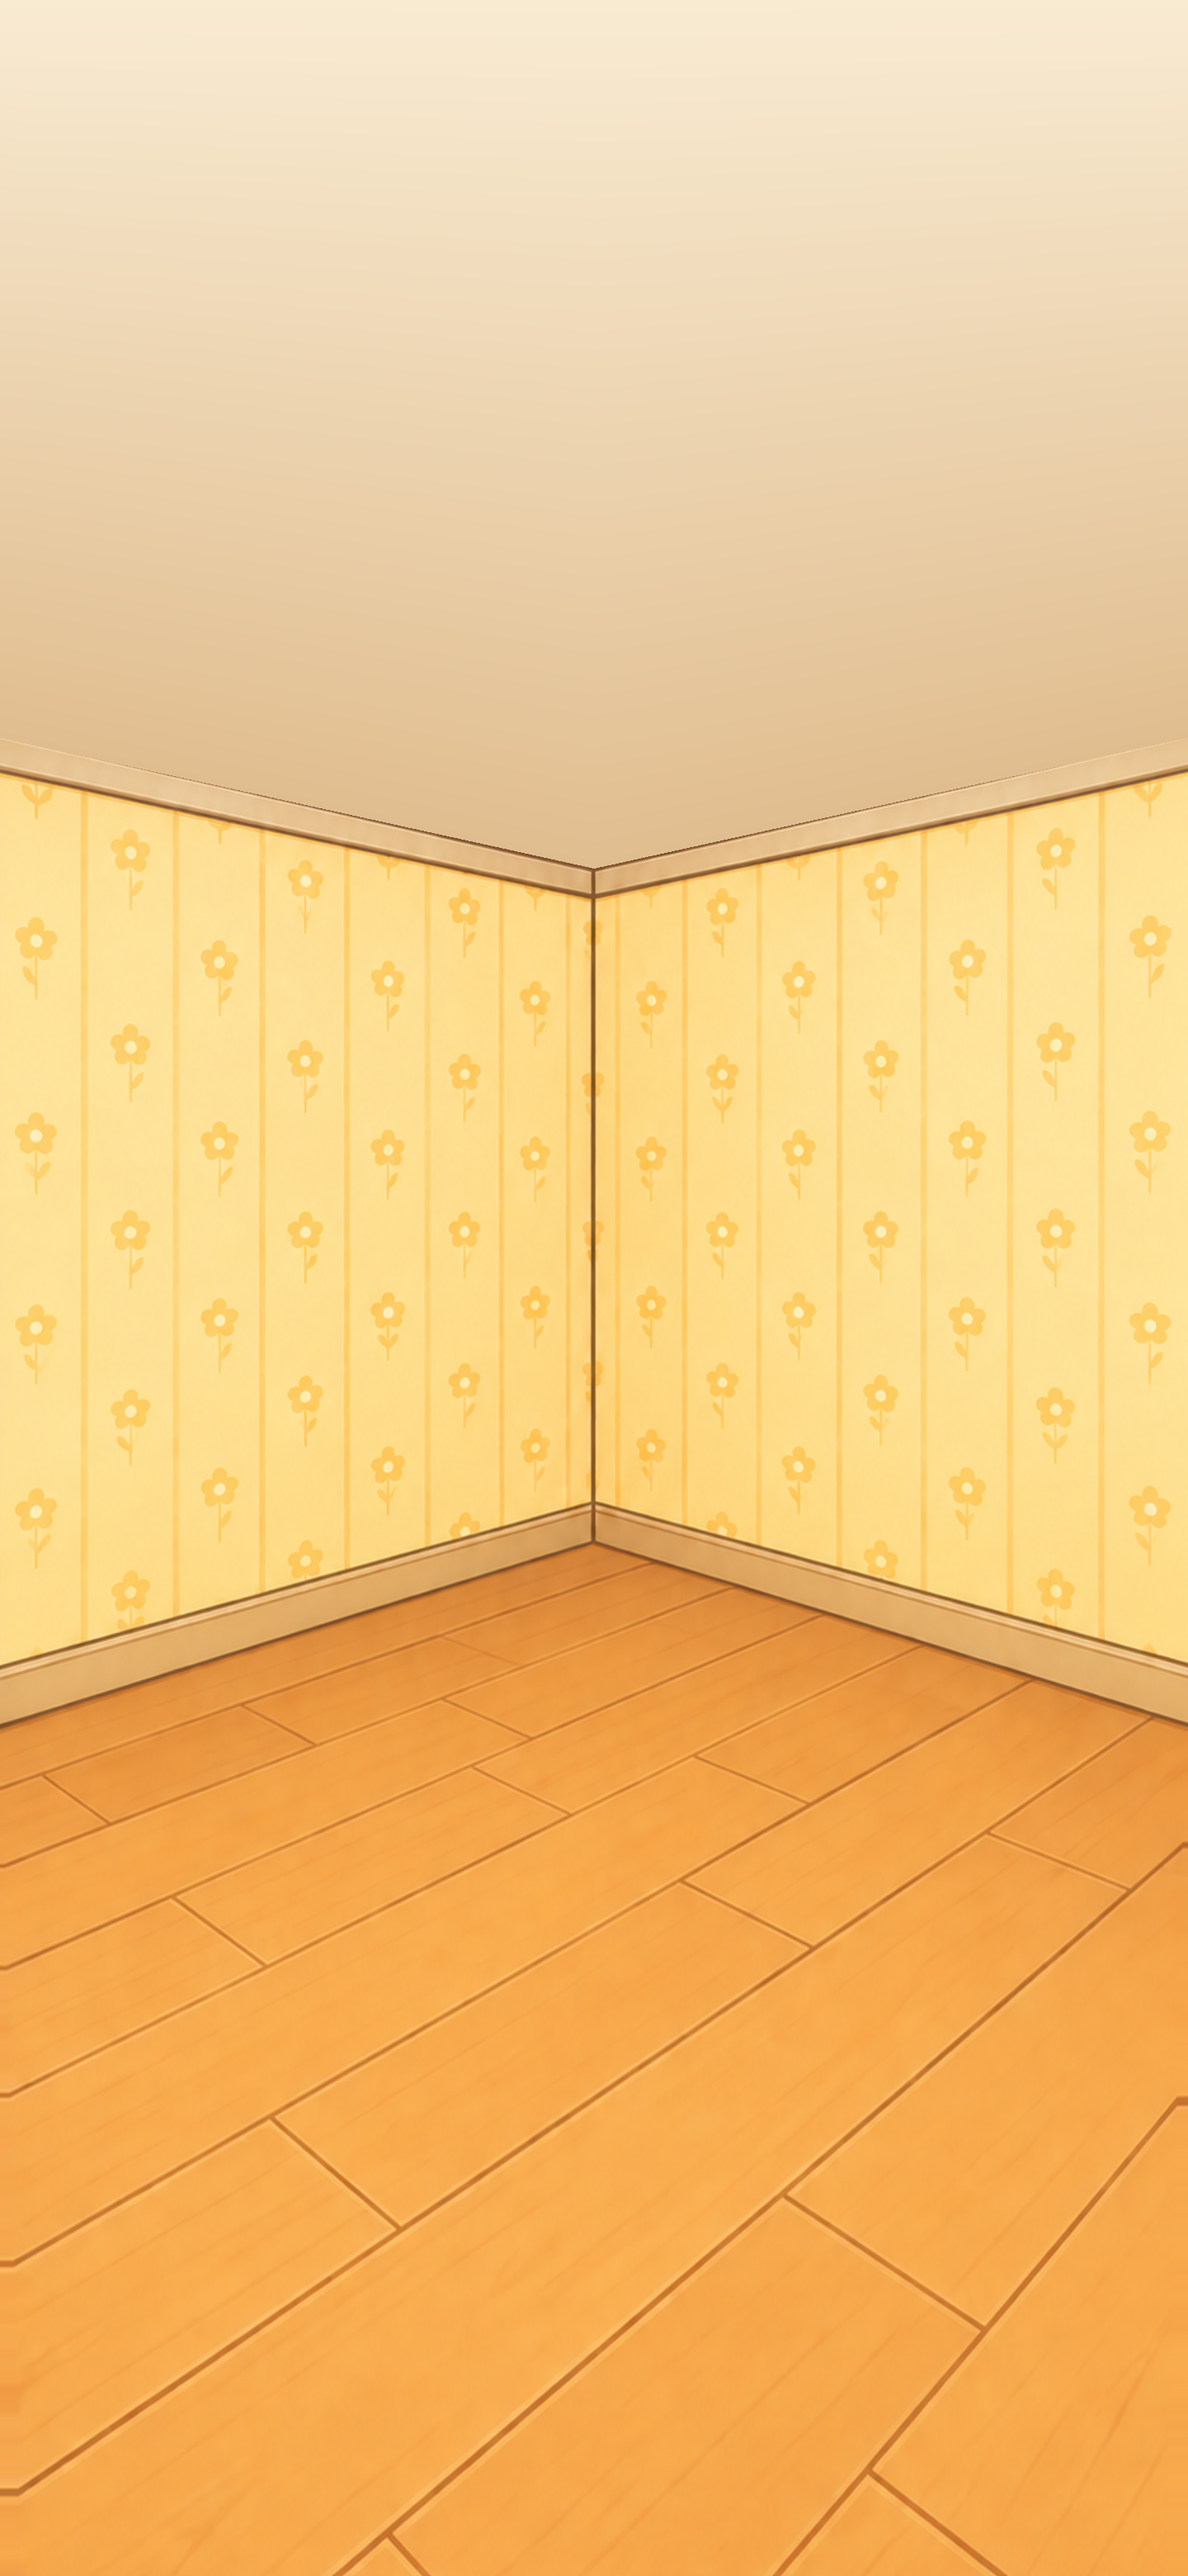
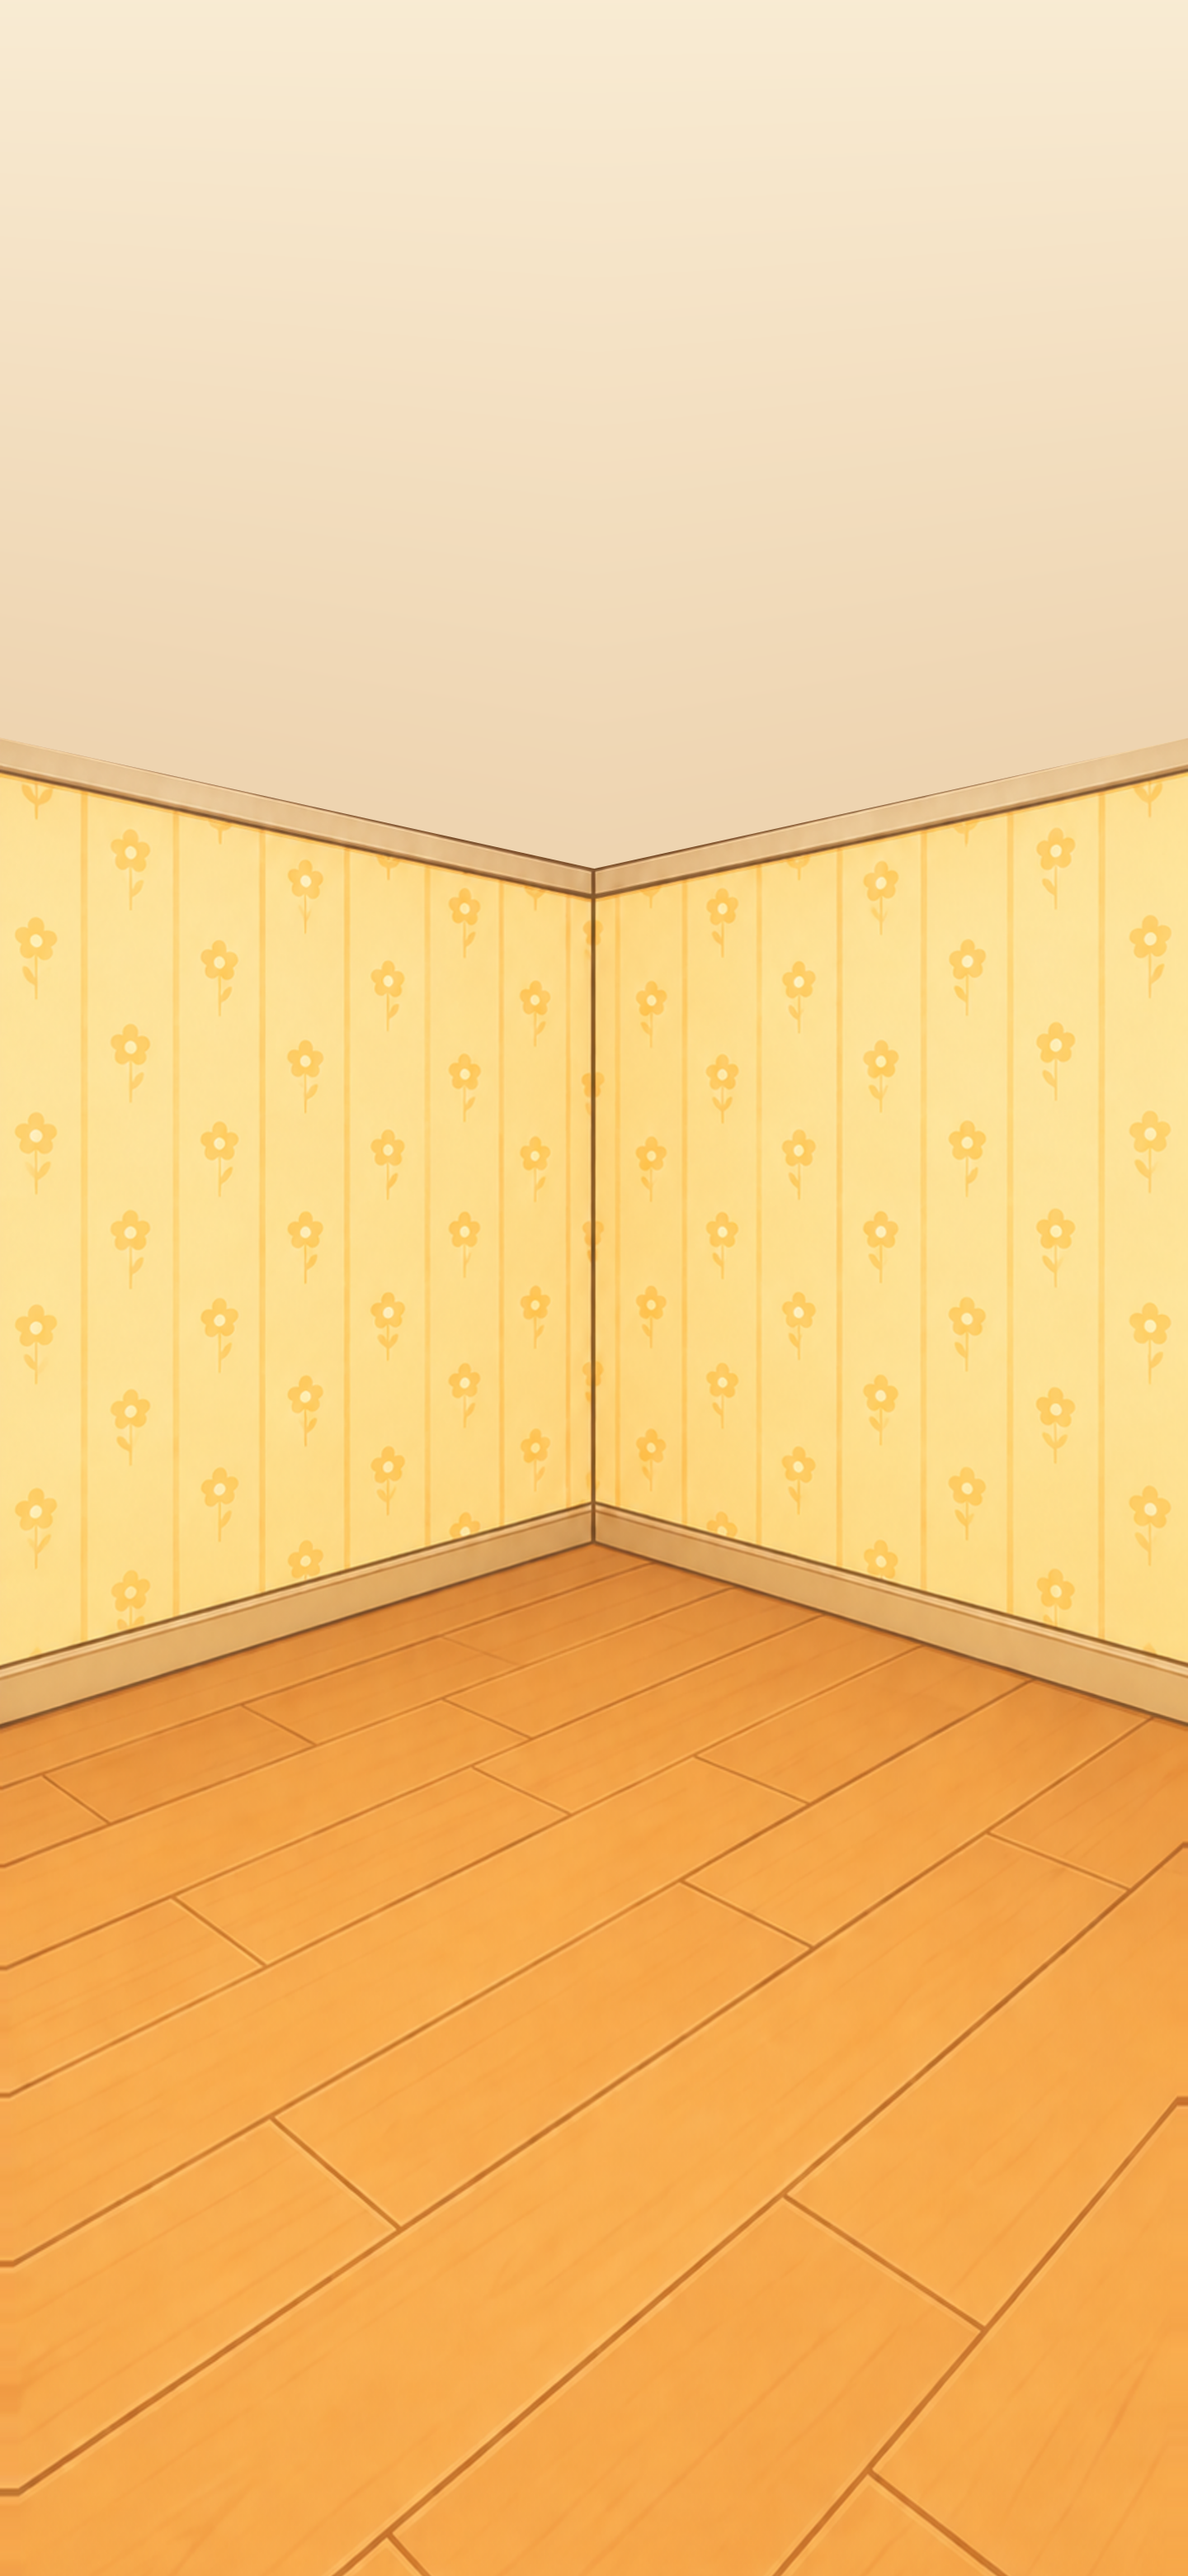
warp_room: anti-aliased plane seams, ceiling colour from above the junction
Ceiling/floor are blended onto the walls by pixel coverage along the
junction lines (no stair-steps), and the ceiling gradient takes its
colour from 30-90 px above the draft's junction (the old sample caught
the moulding and read as a dark band). Re-warped the pilot background.

Claude-Session: https://claude.ai/code/session_01F17z6WKxwFhPVzmgaJQsyh

Changed region(s): [[0.0, 0.2176, 1.0, 0.342]]

diff --git a/tools/warp_room.py b/tools/warp_room.py
@@ -128,33 +128,45 @@ def warp(room_name, src_path, out_path, d):
     left = xs < T["cx"]
     ceil_y = np.where(left, line_y(T["cc"], T["cl"], xs), line_y(T["cc"], T["cr"], xs))
     floor_y = np.where(left, line_y(T["fc"], T["fl"], xs), line_y(T["fc"], T["fr"], xs))
-    plane = np.where(ys < ceil_y, 3, np.where(ys > floor_y, 2, np.where(left, 0, 1)))
     src = np.array(img, dtype=float)
-    out = np.zeros_like(src)
-    for i, name in enumerate(["left", "right", "floor", "ceil"]):
-        m = plane == i
-        if not m.any():
-            continue
+    # цвет потолка черновика — строго над его линией стыка (30–90 px выше), по всей ширине
+    sx_all = np.arange(w, dtype=float)
+    s_ceil = np.where(sx_all < S["cx"], line_y(S["cc"], S["cl"], sx_all), line_y(S["cc"], S["cr"], sx_all))
+    near = np.mean([src[int(max(0, y - 90)):int(max(1, y - 30)), int(x)].mean(axis=0)
+                    for x, y in zip(sx_all[::8], s_ceil[::8])], axis=0)
+    far = src[:40].reshape(-1, 3).mean(axis=0)
+
+    def sample(name, m):
+        """Цвет плоскости name для пикселей маски m (обратное преобразование, билинейно)."""
         H = Hs[name]
         px, py = xs[m], ys[m]
+        if name == "ceil":
+            # потолок почти однотонный: плавный градиент от цвета у молдинга к цвету верха
+            t = np.clip((ceil_y[m] - py) / np.maximum(ceil_y[m], 1.0), 0.0, 1.0)[:, None]
+            return near * (1 - t) + far * t
         den = H[2, 0] * px + H[2, 1] * py + H[2, 2]
-        sx = (H[0, 0] * px + H[0, 1] * py + H[0, 2]) / den
-        sy = (H[1, 0] * px + H[1, 1] * py + H[1, 2]) / den
-        sx = np.clip(sx, 0, w - 1.001)
-        sy = np.clip(sy, 0, h - 1.001)
+        sx = np.clip((H[0, 0] * px + H[0, 1] * py + H[0, 2]) / den, 0, w - 1.001)
+        sy = np.clip((H[1, 0] * px + H[1, 1] * py + H[1, 2]) / den, 0, h - 1.001)
         x0 = np.floor(sx).astype(int)
         y0 = np.floor(sy).astype(int)
         fx = (sx - x0)[:, None]
         fy = (sy - y0)[:, None]
-        c = (src[y0, x0] * (1 - fx) * (1 - fy) + src[y0, x0 + 1] * fx * (1 - fy)
-             + src[y0 + 1, x0] * (1 - fx) * fy + src[y0 + 1, x0 + 1] * fx * fy)
-        if name == "ceil":
-            # потолок почти однотонный: плавный градиент от цвета у молдинга к цвету верха черновика
-            near = src[int(S["cc"][1]) - 70:int(S["cc"][1]) - 30, int(w * 0.3):int(w * 0.7)].reshape(-1, 3).mean(axis=0)
-            far = src[:40].reshape(-1, 3).mean(axis=0)
-            t = np.clip((ceil_y[m] - py) / np.maximum(ceil_y[m], 1.0), 0.0, 1.0)[:, None]
-            c = near * (1 - t) + far * t
-        out[m] = c
+        return (src[y0, x0] * (1 - fx) * (1 - fy) + src[y0, x0 + 1] * fx * (1 - fy)
+                + src[y0 + 1, x0] * (1 - fx) * fy + src[y0 + 1, x0 + 1] * fx * fy)
+
+    wall = np.where(left, "left", "right")
+    out = np.zeros_like(src)
+    # стены целиком (с полосой 2 px за линиями), затем пол и потолок поверх со сглаженным краем:
+    # доля покрытия пикселя — по расстоянию до линии стыка
+    for side in ("left", "right"):
+        m = (wall == side) & (ys >= ceil_y - 2.0) & (ys <= floor_y + 2.0)
+        out[m] = sample(side, m)
+    for name, edge, below in (("ceil", ceil_y, False), ("floor", floor_y, True)):
+        d = (ys - edge) if below else (edge - ys)
+        m = d > -1.0
+        cov = np.clip(d[m] + 0.5, 0.0, 1.0)[:, None]
+        c = sample(name, m)
+        out[m] = out[m] * (1 - cov) + c * cov
     Image.fromarray(np.clip(out, 0, 255).astype(np.uint8)).save(out_path)
     return T
 
